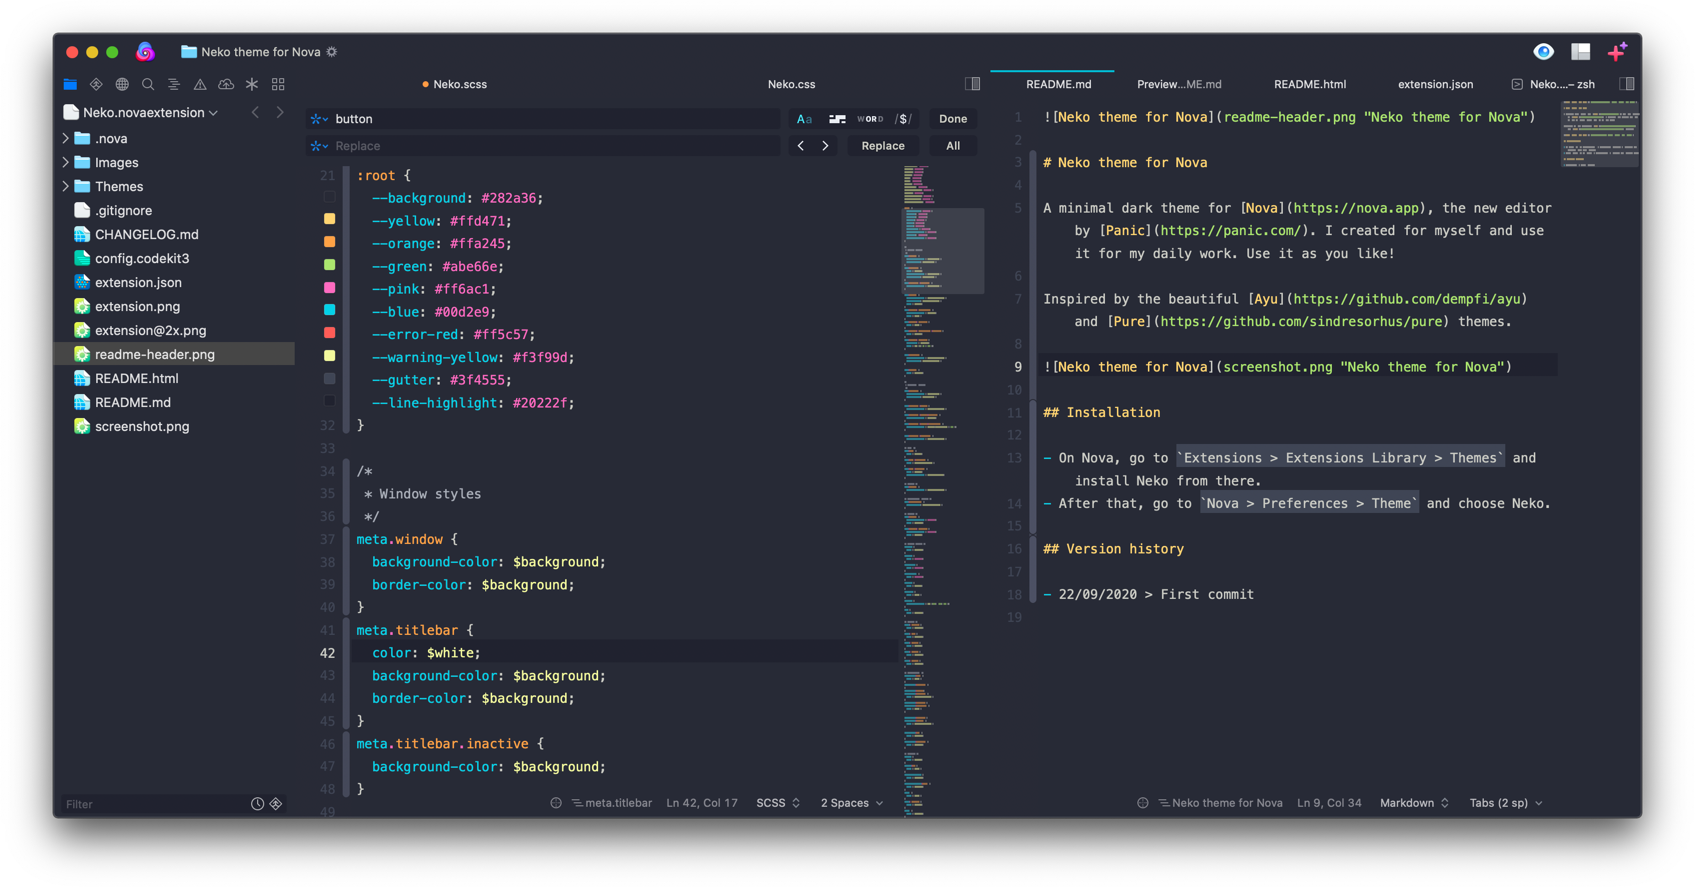
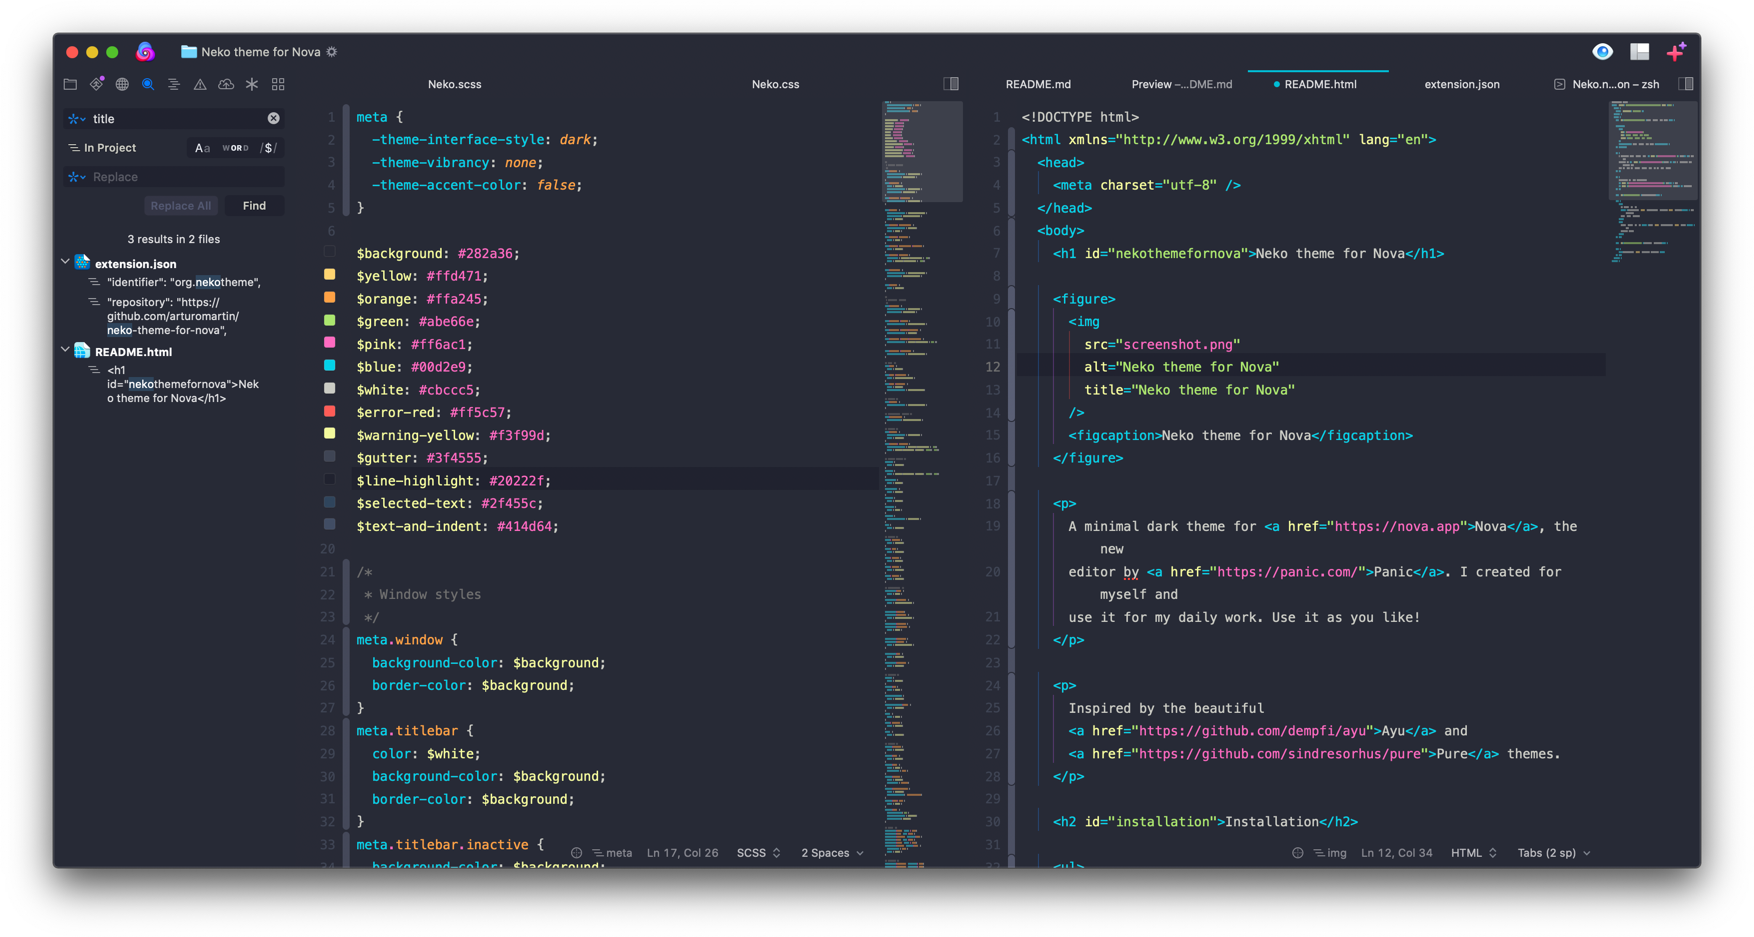
First commit

Changed region(s): [[0.0307, 0.0304, 0.9817, 0.9436], [0.1227, 0.1522, 0.1534, 0.1826]]

diff --git a/Themes/Neko.scss b/Themes/Neko.scss
@@ -18,19 +18,6 @@ $line-highlight: #20222f;
 $selected-text: #2f455c;
 $text-and-indent: #414d64;
 
-:root {
-  --background: #282a36;
-  --yellow: #ffd471;
-  --orange: #ffa245;
-  --green: #abe66e;
-  --pink: #ff6ac1;
-  --blue: #00d2e9;
-  --error-red: #ff5c57;
-  --warning-yellow: #f3f99d;
-  --gutter: #3f4555;
-  --line-highlight: #20222f;
-}
-
 /*
  * Window styles
  */
@@ -64,8 +51,8 @@ meta.button.highlighted.selected {
   color: $white;
 }
 meta.button.disabled {
-  background: $gutter;
-  color: hsb(0, 0%, 40%);
+  background: lighten($background, 5%);
+  color: lighten($background, 20%);
 }
 
 meta.textfield {
@@ -123,12 +110,12 @@ meta.indentguide {
 
 /* Gutter */
 meta.gutter {
-  background-color: #1c2639;
+  background-color: $background;
   color: $gutter;
 }
 meta.gutter.selected {
-  background-color: #28344b;
-  color: $white;
+  background-color: lighten($background, 5%);
+  color: darken(desaturate($white, 100%), 35%);
 }
 
 /* Syntax styles */
@@ -136,13 +123,13 @@ keyword {
   color: $orange;
 }
 comment {
-  color: #a8adb7;
+  color: darken(desaturate($white, 100%), 35%);
 }
 processing {
-  color: #a8adb7;
+  color: $white;
 }
 declaration {
-  color: #a8adb7;
+  color: $white;
 }
 bracket {
   color: $white;
@@ -151,7 +138,7 @@ operator {
   color: $pink;
 }
 invalid {
-  background-color: hsb(355, 82%, 96%);
+  background-color: $error-red;
 }
 link {
   color: $yellow;
@@ -179,7 +166,9 @@ identifier.type {
   color: $blue;
 }
 identifier.constant {
+  color: $warning-yellow;
 }
+
 identifier.global,
 identifier.variable {
   color: $warning-yellow;

diff --git a/Themes/Neko.css b/Themes/Neko.css
@@ -4,19 +4,6 @@ meta {
   -theme-accent-color: false;
 }
 
-:root {
-  --background: #282a36;
-  --yellow: #ffd471;
-  --orange: #ffa245;
-  --green: #abe66e;
-  --pink: #ff6ac1;
-  --blue: #00d2e9;
-  --error-red: #ff5c57;
-  --warning-yellow: #f3f99d;
-  --gutter: #3f4555;
-  --line-highlight: #20222f;
-}
-
 /*
  * Window styles
  */
@@ -56,8 +43,8 @@ meta.button.highlighted.selected {
 }
 
 meta.button.disabled {
-  background: #3f4555;
-  color: hsb(0, 0%, 40%);
+  background: #333545;
+  color: #535871;
 }
 
 meta.textfield {
@@ -119,13 +106,13 @@ meta.indentguide {
 
 /* Gutter */
 meta.gutter {
-  background-color: #1c2639;
+  background-color: #282a36;
   color: #3f4555;
 }
 
 meta.gutter.selected {
-  background-color: #28344b;
-  color: #cbccc5;
+  background-color: #333545;
+  color: #6f6f6f;
 }
 
 /* Syntax styles */
@@ -134,15 +121,15 @@ keyword {
 }
 
 comment {
-  color: #a8adb7;
+  color: #6f6f6f;
 }
 
 processing {
-  color: #a8adb7;
+  color: #cbccc5;
 }
 
 declaration {
-  color: #a8adb7;
+  color: #cbccc5;
 }
 
 bracket {
@@ -154,7 +141,7 @@ operator {
 }
 
 invalid {
-  background-color: hsb(355, 82%, 96%);
+  background-color: #ff5c57;
 }
 
 link {
@@ -185,6 +172,10 @@ value.symbol {
 /* Identifiers */
 identifier.type {
   color: #00d2e9;
+}
+
+identifier.constant {
+  color: #f3f99d;
 }
 
 identifier.global,

diff --git a/README.html b/README.html
@@ -5,14 +5,12 @@
 </head>
 <body>
 
-<!-- ![Neko theme for Nova](readme-header.png "Neko theme for Nova") -->
+<h1 id="nekothemefornovahttps:nova.app">Neko theme for <a href="https://nova.app">Nova</a></h1>
 
 <figure>
 <img src="screenshot.png" alt="Neko theme for Nova" title="Neko theme for Nova" />
 <figcaption>Neko theme for Nova</figcaption>
 </figure>
-
-<h1 id="nekothemefornova">Neko theme for Nova</h1>
 
 <p>A minimal dark theme for <a href="https://nova.app">Nova</a>, the new editor by <a href="https://panic.com/">Panic</a>. I created for myself and use it for my daily work. Use it as you like!</p>
 

diff --git a/README.md b/README.md
@@ -1,8 +1,6 @@
-<!-- ![Neko theme for Nova](readme-header.png "Neko theme for Nova") -->
+# Neko theme for [Nova](https://nova.app)
 
 ![Neko theme for Nova](screenshot.png "Neko theme for Nova")
-
-# Neko theme for Nova
 
 A minimal dark theme for [Nova](https://nova.app), the new editor by [Panic](https://panic.com/). I created for myself and use it for my daily work. Use it as you like!
 
